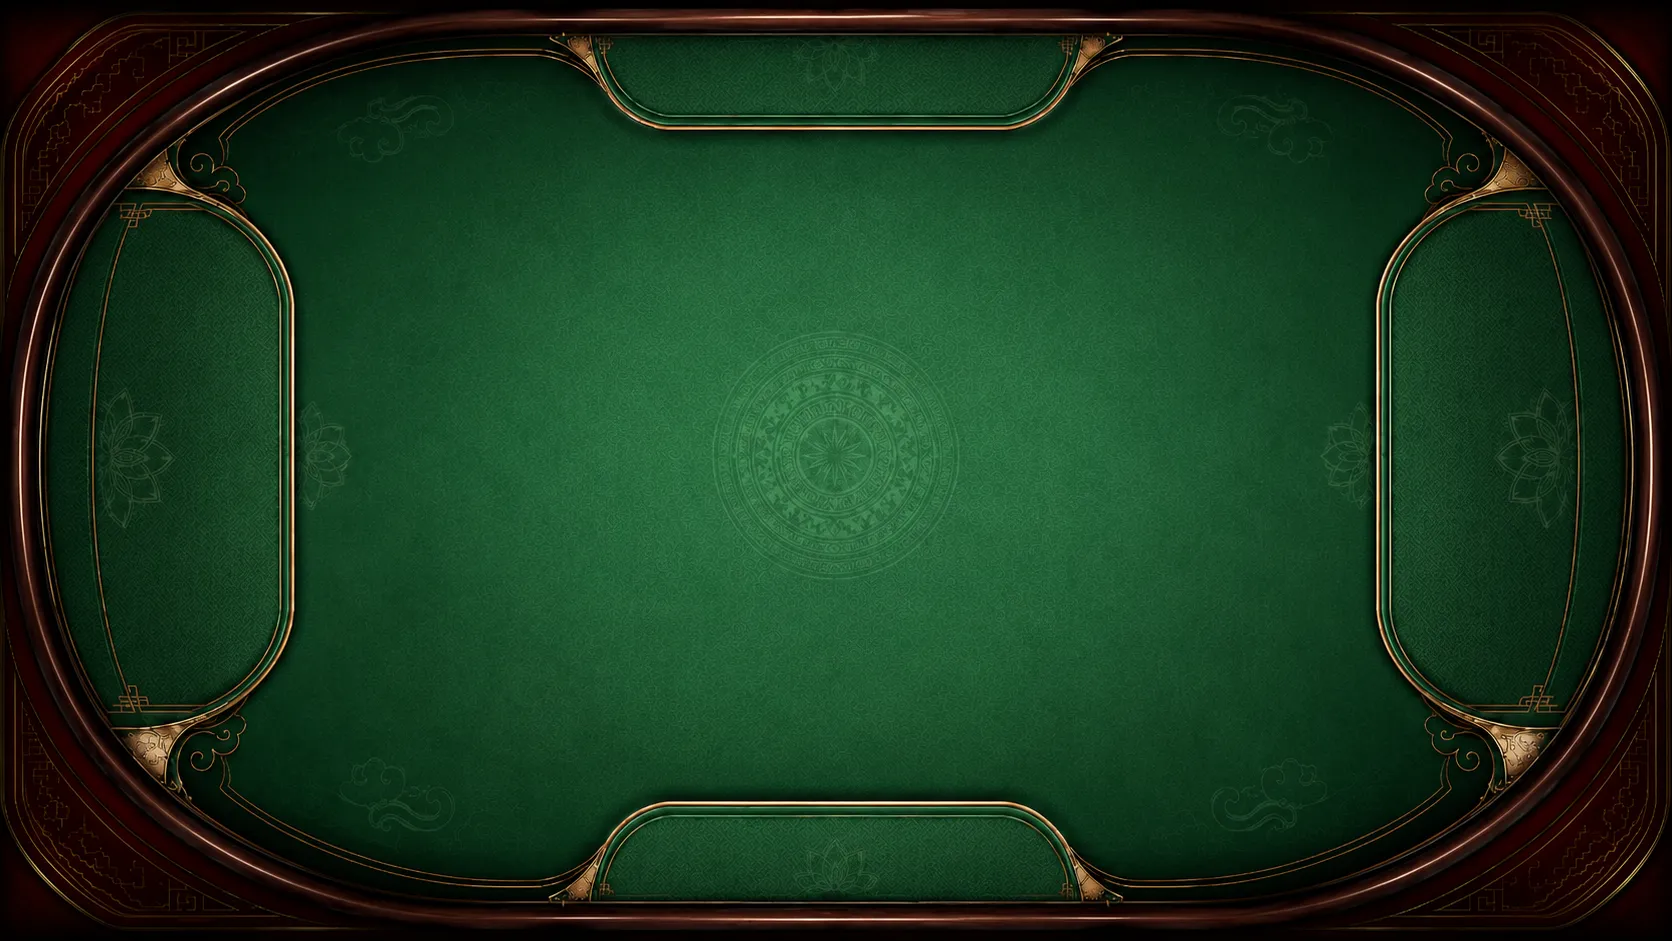
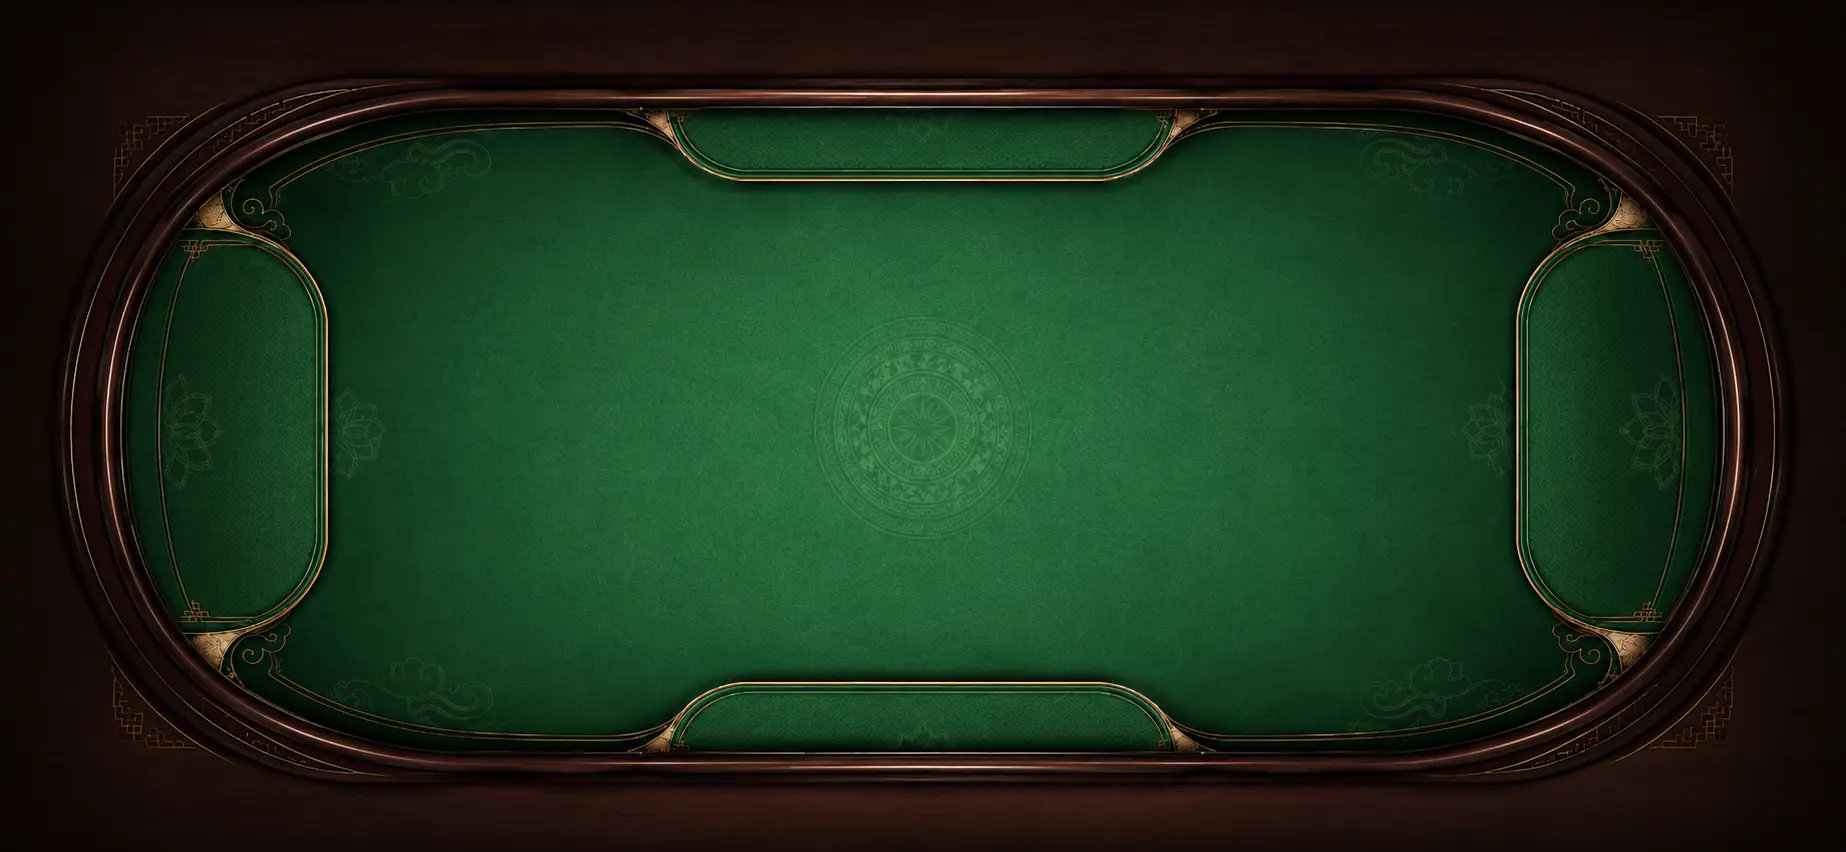
fix(tlmn): new mobile table art + art-aware side-seat lotus anchors
- Replace mobile landscape table art (1846x852, ~2.17) — now matches phone
  landscape ratio so object-cover barely crops (vs the old 16:9 asset).
- The new art's side lotus pockets sit lower/more inset (measured ~x11.5/
  y50.6 vs tablet ~x10/y47.8). Resolve LEFT/RIGHT anchors from the ACTIVE
  art (MOBILE/TABLET_SIDE_ANCHOR) instead of the layout mode, since art is
  picked by width while short/bleed mode is picked by height — a landscape
  phone can show either art. Keeps both avatars ON the lotus in every
  width x height combination.

Presentation-only: no rules, bots, realtime, DB, scoring, coins, or
sequencing changed. Desktop untouched.

diff --git a/app/games/tlmn/[roomCode]/TlmnTable.tsx b/app/games/tlmn/[roomCode]/TlmnTable.tsx
@@ -53,8 +53,15 @@ const BOARD_RATIO = BOARD_W / BOARD_H // ≈ 1.777 (16:9)
 // from web/public/. Rendered object-cover BEHIND the seats/pile/FX so the felt fills the
 // stage edge-to-edge with no distortion; the tuned seat geometry (GEOMETRY.bleed/short) is
 // unchanged, so all four seats + the centre pile stay aligned around the painted table.
-const BOARD_MOBILE_SRC = '/tlmn-table-mobile-landscape.webp' // 1672×941 (16:9)
+const BOARD_MOBILE_SRC = '/tlmn-table-mobile-landscape.webp' // 1846×852 (≈2.17, phone-landscape)
 const BOARD_TABLET_SRC = '/tlmn-table-tablet-landscape.webp' // 1448×1086 (4:3)
+// Painted side-lotus (left/right pocket) CENTRES for each art, measured from the mahogany-
+// frame arcs and mapped through object-cover. They differ per art AND the art is picked by
+// WIDTH while short/bleed mode is picked by HEIGHT, so a landscape phone can show either art;
+// the side seats resolve their anchor from the ACTIVE art (see `geom` below) so both avatars
+// land ON the lotus in every width×height combo. x is the left value; right mirrors to 100−x.
+const MOBILE_SIDE_ANCHOR = { x: 11.5, y: 51 } // wide oval art: pockets ≈ x11.5 / y50.6
+const TABLET_SIDE_ANCHOR = { x: 10, y: 48 }   // 4:3 art: pockets ≈ x10 / y47.8
 const BLEED_TABLET_MIN = 768 // ≥ this width ⇒ tablet art, else mobile art
 // Upper width bound for treating a COARSE-pointer (touch) device as a full-bleed tablet.
 // Covers every common tablet landscape width — 1024, 1180, 1194, 1366 — so an iPad-class
@@ -240,15 +247,12 @@ const GEOMETRY: Record<LayoutMode, SeatGeometry> = {
   bleed: {
     // Coordinate-space unification (Run 13): the full-bleed art is a STAGE-LEVEL background
     // (object-cover, centred) and the seat play area now spans that SAME box — the top chrome
-    // OVERLAYS it rather than reserving a band above it — so image-% == area-%. LEFT/RIGHT
-    // anchor to the MEASURED lotus-pocket centre of the tablet art: the painted side pockets
-    // are centred at y≈47.8% (measured from the mahogany-frame arcs, NOT 50% as first assumed);
-    // object-cover barely shifts a near-centre feature, so y:48 lands the avatar + its facedown
-    // fan (both centred on the anchor) ON the lotus, perfectly mirrored and device-independent.
-    // TOP hugs the top edge (y:12), just clear of the compact overlay chrome whose CENTRE is
-    // empty (buttons hug the corners); its facedown fan now hangs BELOW it (toward centre) so
-    // the cards read as "in front of" the top player. x:10/90 centres each side pod in its
-    // lotus pocket, inset from the wooden rail so the name plate isn't pressed to it.
+    // OVERLAYS it rather than reserving a band above it — so image-% == area-%. TOP hugs the
+    // top edge (y:12), just clear of the compact overlay chrome whose CENTRE is empty (buttons
+    // hug the corners); its facedown fan hangs BELOW it (toward centre) so the cards read as
+    // "in front of" the top player. NOTE: the LEFT/RIGHT x/y below are placeholders — they are
+    // overridden at render time by the art-specific MOBILE/TABLET_SIDE_ANCHOR (see `geom`), so
+    // the side avatars land on whichever art's lotus is actually showing.
     seats: { top: { x: 50, y: 12 }, left: { x: 10, y: 48 }, right: { x: 90, y: 48 }, bottom: { x: 50, y: 90 } },
     // Centre band straddles the felt's OPTICAL centre — nudged a touch above the geometric
     // middle so the played pile clears the bottom hand while still reading on the central
@@ -256,9 +260,9 @@ const GEOMETRY: Record<LayoutMode, SeatGeometry> = {
     band: { top: 39, bottom: 55 },
   },
   // Short-landscape phones (vh < 520) — same discipline as `bleed`. The overlay chrome is a
-  // larger fraction of a short viewport, so TOP drops to y:15 to clear it; the sides sit on the
-  // MEASURED mobile-art lotus centre (pockets centred at y≈48.6% → y:48 after object-cover);
-  // the band rides a touch higher since the compact dock owns more of the short screen.
+  // larger fraction of a short viewport, so TOP drops to y:15 to clear it; the LEFT/RIGHT
+  // values are again placeholders overridden by the art-specific side anchor (see `geom`); the
+  // band rides a touch higher since the compact dock owns more of the short screen.
   short: {
     seats: { top: { x: 50, y: 15 }, left: { x: 9, y: 48 }, right: { x: 91, y: 48 }, bottom: { x: 50, y: 86 } },
     band: { top: 37, bottom: 54 },
@@ -1167,13 +1171,30 @@ export default function TlmnTable({ roomId, seats, mySeat, isHost, inviteCode, o
   // info panel replacing Gợi ý in the action row + Sắp xếp anchored to the hand's
   // top-right). Mobile/tablet (bleed) and portrait (oval) keep their existing docks.
   const isDesktop = mode === 'desktop'
-  const geom = GEOMETRY[mode]
+  // Resolve the LEFT/RIGHT (lotus) anchors from the ACTIVE full-bleed art rather than the mode:
+  // the mobile art's side pockets sit lower + more inset than the tablet art's, and either art
+  // can appear in short OR bleed mode (art is picked by width, mode by height). Baking the
+  // art-specific anchor into `geom` here keeps seatStyle + throwCoord + bubbleAnchor all in
+  // sync. Desktop/oval keep their own art-matched geometry untouched.
+  const geom: SeatGeometry = (() => {
+    const base = GEOMETRY[mode]
+    if (!fullBleed) return base
+    const s = bleedBoardSrc === BOARD_TABLET_SRC ? TABLET_SIDE_ANCHOR : MOBILE_SIDE_ANCHOR
+    return {
+      ...base,
+      seats: {
+        ...base.seats,
+        left: { ...base.seats.left, x: s.x, y: s.y },
+        right: { ...base.seats.right, x: 100 - s.x, y: s.y },
+      },
+    }
+  })()
   // EVERY seat is anchored purely as a % of the inner play area (areaRef / the board box) —
   // the single positioning context. No seat is ever tied to the page, window, browser
   // toolbar/chrome height, or the PWA install banner: those are out-of-flow overlays that
   // must never move a seat. On full-bleed the play area spans the WHOLE stage (the compact
   // chrome overlays its top edge), so it shares the painted art's coordinate box 1:1 — the
-  // side seats' y:50 lands on the lotus and the top seat's low y clears the corner controls
+  // side seats' y lands on the lotus and the top seat's low y clears the corner controls
   // (whose centre is empty). Scales fluidly from a 320px phone to a 1366px tablet, no per-
   // device coordinates.
   const seatStyle = (place: string): CSSProperties => {